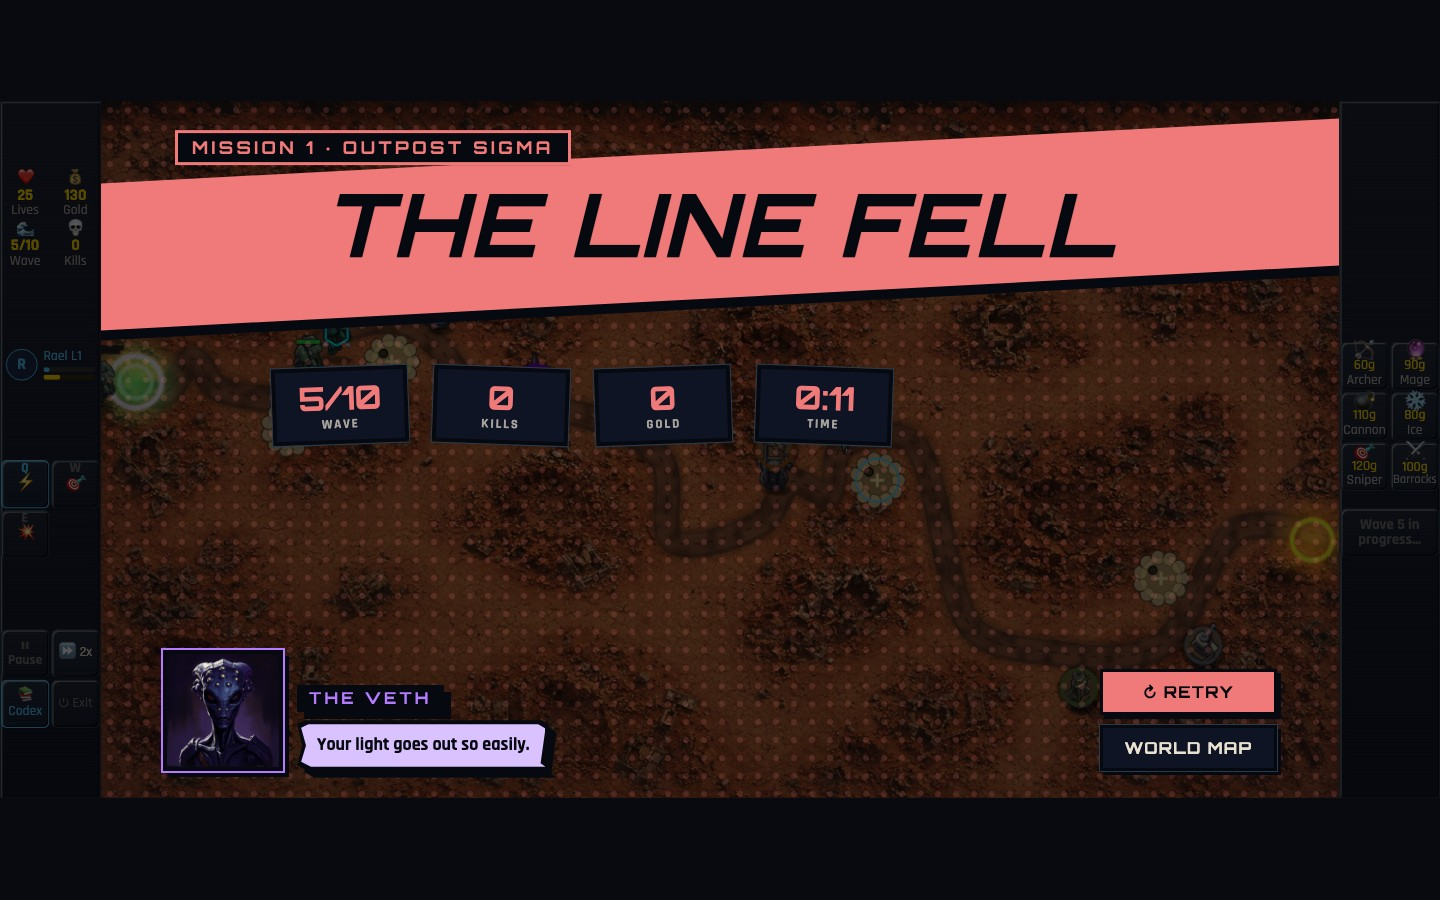
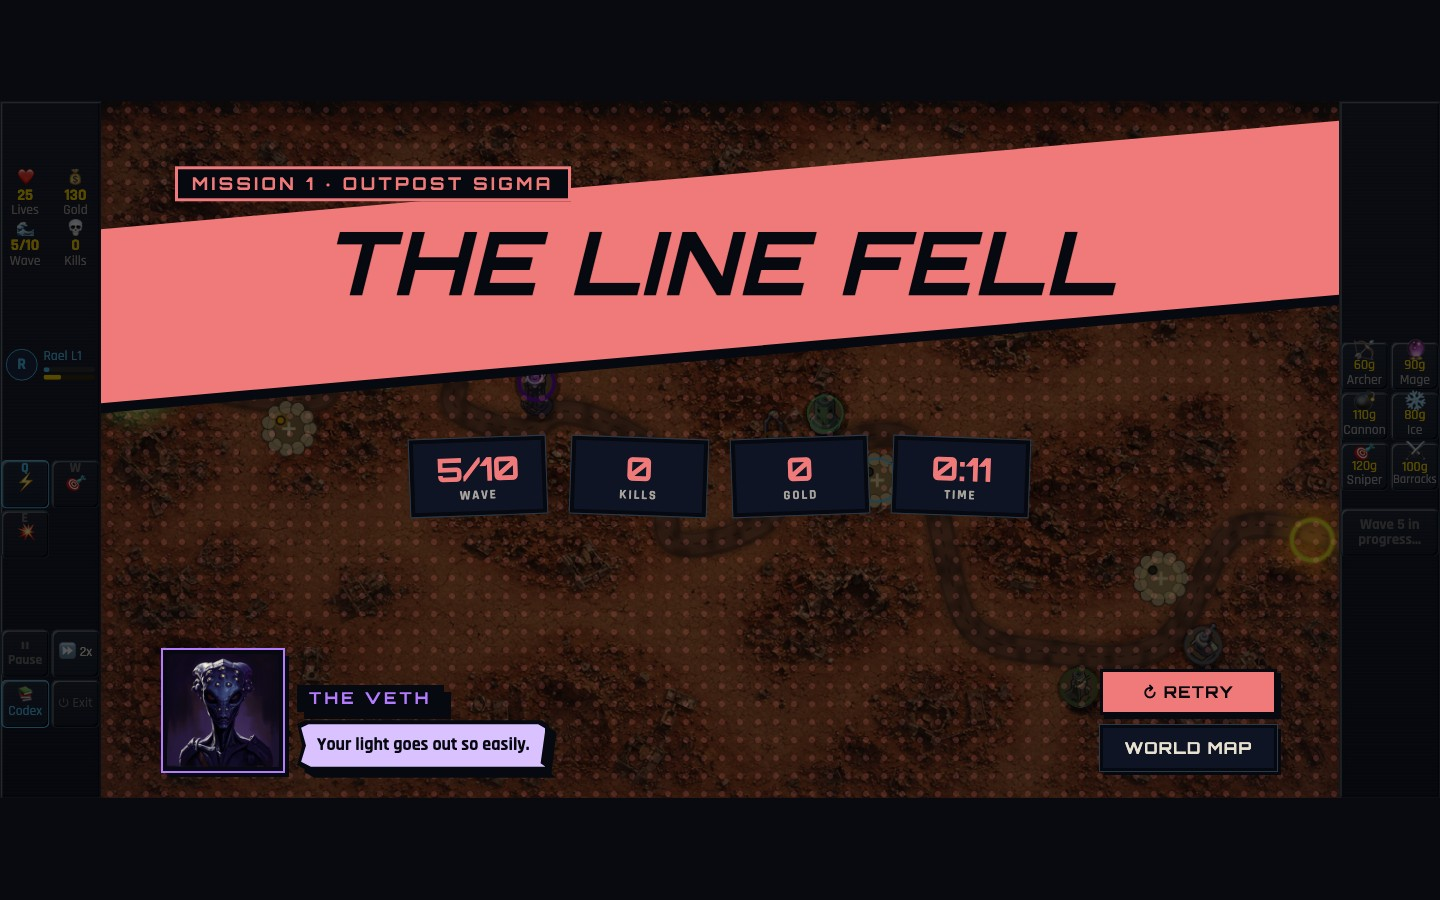
fix(results): keep 1440x900 in the tall composition
A container query measures the stage's content box, and the stage's
bottom padding made desktop1440's 697-px map a 670-px box, under the
680-px short threshold, so the approved mockup-B composition never
showed there. Measured on the capture build: desktop 597, desktop1440
670, iPad 502; the tall stack fits only desktop1440. The short tier is
now <= 640 px.

The screens harness pins desktop1440's victory to the tall stack
(actions not in column 2, stars centred on the stage), and resultsCss
bounds the threshold below the 670-px content box. Captures for every
changed desktop1440 results shot, plus desktop and iPad 07-victory.

Changed region(s): [[0.0625, 0.1244, 0.9375, 0.5911]]

diff --git a/index.html b/index.html
@@ -636,13 +636,15 @@
     /* Reduced motion (spec §10) is the saved setting, so a class. The root is left out on
        purpose: its single rs-fade still plays, so the screen fades rather than pops. */
     #results.motion-off *, #results.motion-off *::before, #results.motion-off *::after { animation:none !important; }
-    /* Size tiers key on the MAP RECT (.rs-stage), not the viewport: a 1280x720 window
-       gives a ~620-px stage that a viewport query calls tall, yet the tall stack (banner,
-       stars, chips, then caption beside three stacked buttons) needs ~690 px.
-       Short: the actions take their own column beside stars, chips and caption, and the
-       banner drops to the compact skew, so its bleed costs less height. Set on the banner,
-       where the layout audit reads --rs-skew. desktop1440's ~697-px map stays tall. */
-    @container (max-height: 680px) {
+    /* Size tiers key on the MAP RECT (.rs-stage), not the viewport, and a container query
+       measures the stage's CONTENT box (its padding-bottom excluded). Measured on the
+       capture build: desktop1440's 697-px map is a 670-px content box and holds the tall
+       stack (banner, centred stars and chips, then caption beside three stacked buttons);
+       1280x720 (597) and iPad landscape (502) can't. Short (<= 640): the actions take
+       their own column beside stars, chips and caption, and the banner drops to the
+       compact skew, so its bleed costs less height. Set on the banner, where the layout
+       audit reads --rs-skew. */
+    @container (max-height: 640px) {
       .rs-banner { --rs-skew: var(--rs-compact-skew-deg, 3deg); --rs-tan: var(--rs-compact-skew-tan, 0.0524);
         min-height:clamp(56px, 22cqh, 200px); }
       .rs-stars { grid-column:1; grid-row:2; }
@@ -650,8 +652,8 @@
       .rs-caption { grid-column:1; grid-row:4; }
       .rs-actions { grid-column:2; grid-row:2 / 5; }
     }
-    /* Compact (a stage no taller than COMPACT_QUERY's 500 px, whatever the viewport): the
-       short composition at phone sizes; text drops to Rajdhani (Orbitron only >= 16 px). */
+    /* Compact (a content box no taller than 500 px, whatever the viewport): the short
+       composition at phone sizes; text drops to Rajdhani (Orbitron only >= 16 px). */
     @container (max-height: 500px) {
       .rs-halftone { background-size:calc(12 * var(--ui-u)) calc(12 * var(--ui-u)); }
       .rs-banner { --rs-ink-drop: calc(6 * var(--ui-u)); min-height:clamp(72px, 22cqh, 200px);

diff --git a/src/ui/resultsCss.test.js b/src/ui/resultsCss.test.js
@@ -232,9 +232,11 @@ describe('results CSS', () => {
     const tiers = [...containerTiers].sort((a, b) => b.px - a.px);
     expect(tiers.length).toBeGreaterThanOrEqual(2);
     const short = tiers[0];
-    // desktop1440's ~697-px map keeps the mockup composition.
+    // The query measures the stage's CONTENT box (padding excluded): desktop1440's 697-px
+    // map is a 670-px content box and must keep the mockup composition; iPad's 502 and
+    // 1280x720's 597 can't hold the tall stack (measured on the capture build).
     expect(short.px).toBeGreaterThanOrEqual(600);
-    expect(short.px).toBeLessThan(697);
+    expect(short.px).toBeLessThan(670);
     expect(decls(bodyFor('.rs-actions', short.rules))).toEqual(expect.arrayContaining([['grid-column', '2'], ['grid-row', '2 / 5']]));
     for (const sel of ['.rs-stars', '.rs-chips', '.rs-caption']) {
       expect(decls(bodyFor(sel, short.rules)), sel).toContainEqual(['grid-column', '1']);
